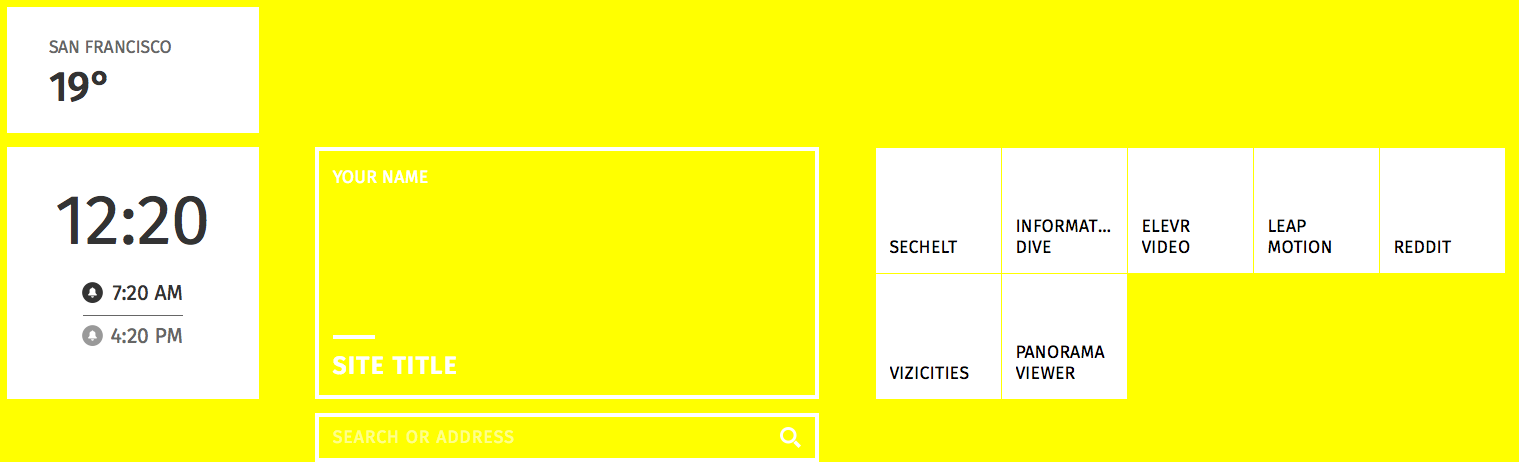
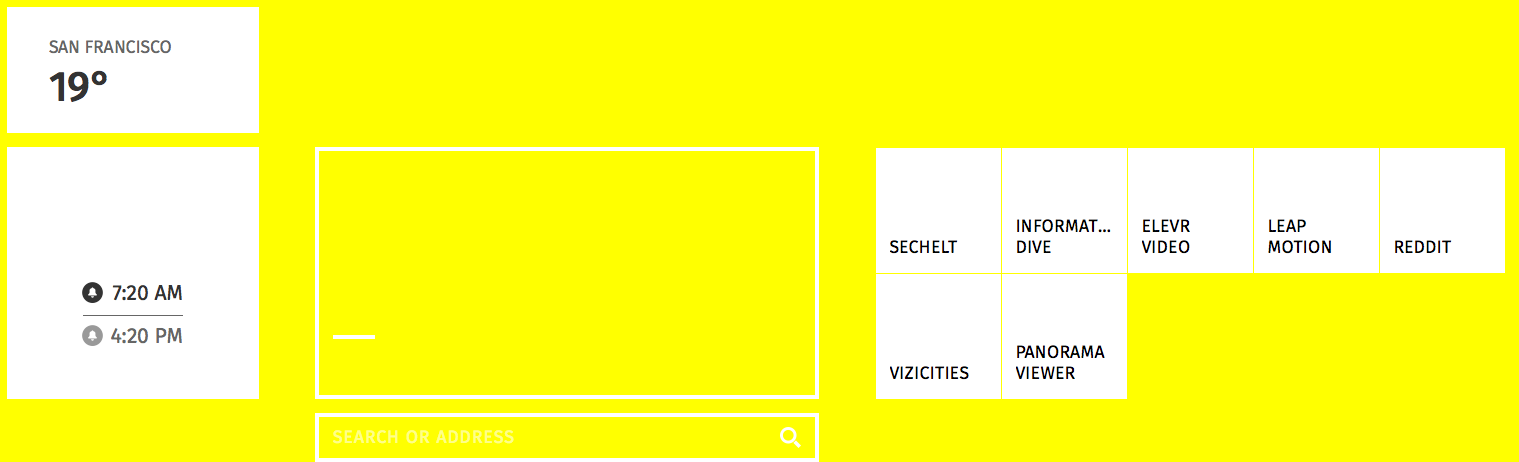
live canvas updates

Changed region(s): [[0.0309, 0.4242, 0.1547, 0.5455], [0.2166, 0.7576, 0.3094, 0.8182], [0.2166, 0.3636, 0.2785, 0.3939]]

diff --git a/hiro-ui/build/index.html b/hiro-ui/build/index.html
@@ -1,1 +1,1 @@
-<!DOCTYPE html><html><head><meta charset="utf-8"><meta name="description" content=""><meta name="viewport" content="width=device-width, initial-scale=1"><link rel="stylesheet" href="css/style.css"><link rel="stylesheet" href="fonts/fira/fira.css"><title>Hiro UI</title><script id="uidata" type="text/json"></script></head><body><div class="content"><div class="header">HIRO UI</div><div class="break"><hr>Site Frame</div><div tabindex="1" class="frame"><ul class="authors"><li>Casey Yee</li><li>Diego Marcos</li><li>Vlad Vukicevic</li></ul><div class="title"><div class="dash"></div><h1>Road to VR</h1></div></div><div class="break"><hr>Location Bar</div><input input type="text" tabindex="2" placeholder="Search or Address" class="location"><div class="cf"></div><div class="break"><hr>Keyboard</div><div class="keyboard"><ul class="cf"><li>q</li><li>w</li><li>e</li><li>r</li><li>t</li><li>y</li><li>u</li><li>i</li><li>o</li><li>p</li></ul><ul class="cf"><li>a</li><li>s</li><li>d</li><li>f</li><li tabindex="3">g</li><li>h</li><li>j</li><li>k</li><li>l</li></ul><ul class="cf"><li class="shift">-</li><li>z</li><li>x</li><li>c</li><li>v</li><li>b</li><li>n</li><li>m</li><li class="delete">-</li></ul><ul class="cf"><li class="alternate">123</li><li class="languages">-</li><li tabindex="4" class="space">Space</li><li class="period">.</li><li class="enter">Enter</li></ul></div><div class="cf"></div><div class="break"><hr>Favorites</div><div class="fav"><div class="fav-inner">Mozilla Developer</div></div><div class="fav"><div class="fav-inner">Sechelt</div></div><div class="fav"><div class="fav-inner">Twitter</div></div><div class="fav"><div class="fav-inner">Daring Fireball</div></div><div class="fav"><div class="fav-inner">Three.js documentation</div></div><div class="fav"><div class="fav-inner">GLSL.HER</div></div><div class="fav"><div class="fav-inner">Andrew Sullivan</div></div><div class="fav"><div class="fav-inner">The Atlantic</div></div><div class="fav"><div class="fav-inner">Vancouver Sun</div></div><div class="fav"><div class="fav-inner">IO9</div></div><div class="fav"><div class="fav-inner">Hacker News</div></div><div class="fav"><div class="fav-inner">Youtube</div></div><div class="fav"><div class="fav-inner">Facebook</div></div><div class="fav"><div class="fav-inner">Ars Technica</div></div><div class="fav"><div class="fav-inner">Reddit</div></div><div class="fav"><div class="fav-inner">DuckDuckGo</div></div><div class="fav"><div class="fav-inner">Oculus Share</div></div><div class="cf"></div><div class="break"><hr>Doorhanger</div><div class="doorhanger"><div class="box"><h1>Would you like to show notifications for localhost?</h1><p>Lorem ipsum dolor sit amet, consectetur adipiscing elit, sed do eiusmod tempor incididunt ut labore et dolore magna aliqua.</p><div class="close"></div></div><div tabindex="5" class="button secondary">Allow</div><div tabindex="6" class="button primary">Deny</div></div><div class="cf"></div><div class="break"><hr>Call</div><div class="call"><div class="box"><img src="images/vlad.png"><h2>Incoming Call</h2><h1>Vlad Vukicevic</h1><div class="close"></div></div><div tabindex="7" class="button secondary">Ignore</div><div tabindex="8" class="button primary">Answer</div></div><div class="cf"></div><div class="break"><hr>Widgets</div><div class="widget-small"><div class="weather-location">San Francisco</div><div class="weather-temp">19</div></div><div class="widget-medium"><div class="clock-time">12:20</div><div class="clock-alarm">7:20 AM</div><div class="clock-alarm active">4:20 PM</div></div></div><script type="text/javascript" src="js/dom2three.js"></script><script type="text/javascript" src="js/app.js"></script></body></html>
+<!DOCTYPE html><html><head><meta charset="utf-8"><meta name="description" content=""><meta name="viewport" content="width=device-width, initial-scale=1"><link rel="stylesheet" href="css/style.css"><link rel="stylesheet" href="fonts/fira/fira.css"><title>Hiro UI</title><script id="uidata" type="text/json"></script></head><body><div class="content"><div class="header">HIRO UI</div><div class="break"><hr>Site Frame</div><div tabindex="1" class="frame"><div class="authors">Casey Yee<br>Diego Marcos<br>Vlad Vukicevic</div><div class="title"><div class="dash"></div><h1>Road to VR</h1></div></div><div class="break"><hr>Location Bar</div><input input type="text" tabindex="2" placeholder="Search or Address" class="location"><div class="cf"></div><div class="break"><hr>Keyboard</div><div class="keyboard"><ul class="cf"><li>q</li><li>w</li><li>e</li><li>r</li><li>t</li><li>y</li><li>u</li><li>i</li><li>o</li><li>p</li></ul><ul class="cf"><li>a</li><li>s</li><li>d</li><li>f</li><li tabindex="3">g</li><li>h</li><li>j</li><li>k</li><li>l</li></ul><ul class="cf"><li class="shift">-</li><li>z</li><li>x</li><li>c</li><li>v</li><li>b</li><li>n</li><li>m</li><li class="delete">-</li></ul><ul class="cf"><li class="alternate">123</li><li class="languages">-</li><li tabindex="4" class="space">Space</li><li class="period">.</li><li class="enter">Enter</li></ul></div><div class="cf"></div><div class="break"><hr>Favorites</div><div class="fav"><div class="fav-inner">Mozilla Developer</div></div><div class="fav"><div class="fav-inner">Sechelt</div></div><div class="fav"><div class="fav-inner">Twitter</div></div><div class="fav"><div class="fav-inner">Daring Fireball</div></div><div class="fav"><div class="fav-inner">Three.js documentation</div></div><div class="fav"><div class="fav-inner">GLSL.HER</div></div><div class="fav"><div class="fav-inner">Andrew Sullivan</div></div><div class="fav"><div class="fav-inner">The Atlantic</div></div><div class="fav"><div class="fav-inner">Vancouver Sun</div></div><div class="fav"><div class="fav-inner">IO9</div></div><div class="fav"><div class="fav-inner">Hacker News</div></div><div class="fav"><div class="fav-inner">Youtube</div></div><div class="fav"><div class="fav-inner">Facebook</div></div><div class="fav"><div class="fav-inner">Ars Technica</div></div><div class="fav"><div class="fav-inner">Reddit</div></div><div class="fav"><div class="fav-inner">DuckDuckGo</div></div><div class="fav"><div class="fav-inner">Oculus Share</div></div><div class="cf"></div><div class="break"><hr>Doorhanger</div><div class="doorhanger"><div class="box"><h1>Would you like to show notifications for localhost?</h1><p>Lorem ipsum dolor sit amet, consectetur adipiscing elit, sed do eiusmod tempor incididunt ut labore et dolore magna aliqua.</p><div class="close"></div></div><div tabindex="5" class="button secondary">Allow</div><div tabindex="6" class="button primary">Deny</div></div><div class="cf"></div><div class="break"><hr>Call</div><div class="call"><div class="box"><img src="images/vlad.png"><h2>Incoming Call</h2><h1>Vlad Vukicevic</h1><div class="close"></div></div><div tabindex="7" class="button secondary">Ignore</div><div tabindex="8" class="button primary">Answer</div></div><div class="cf"></div><div class="break"><hr>Widgets</div><div class="widget-small"><div class="weather-location">San Francisco</div><div class="weather-temp">19</div></div><div class="widget-medium"><div class="clock-time">12:20</div><div class="clock-alarm">7:20 AM</div><div class="clock-alarm active">4:20 PM</div></div></div><script type="text/javascript" src="js/dom2three.js"></script><script type="text/javascript" src="js/app.js"></script></body></html>

diff --git a/dom2three.js b/dom2three.js
@@ -21,7 +21,6 @@ function DOM2three(uiData, searchRoot) {
 
 DOM2three.prototype.getRectangle = function(el) {
 	var rect = el.getBoundingClientRect();
-	console.log(el, rect);
 	return {
 		x: rect.x,
 		y: rect.y,
@@ -53,7 +52,12 @@ DOM2three.prototype.applyContent = function(items, dom) {
 				if (content.selector) {
 					var cel = el.querySelector(content.selector)
 					if (cel) {
-						cel.innerHTML = content.content;
+						// if this content is to be replaced with canvas text, clear out contents of element.
+						if (content.canvas) {
+							cel.innerHTML = '&nbsp;';
+						} else {
+							cel.innerHTML = content.content;
+						}
 					} else {
 						console.error(content.selector + " not found");
 					}

diff --git a/hiro-ui/src/sass/style.scss b/hiro-ui/src/sass/style.scss
@@ -107,17 +107,18 @@ body {
 	height: 18rem;
 	position: relative;
 	font-size: $font-small;
-	
+
 	.authors {
 		list-style-type: none;
-		padding: 1rem 0 0 1rem; 
-		margin: 0;
+		//padding: 1rem 0 0 1rem;
+		margin: 1rem 0 0 1rem;
+		padding: 0;
 		text-transform: uppercase;
 		font-size: $font-small;
 		letter-spacing: 0.025rem;
 
 		li {
-			padding: 0; 
+			padding: 0;
 			margin: 0;
 		}
 
@@ -362,7 +363,7 @@ body {
 	font-size: $font-small;
 	font-weight: 400;
 	line-height: 1.75rem;
-	padding: 1rem 0 0; 
+	padding: 1rem 0 0;
 	margin: 0;
 }
 
@@ -446,7 +447,7 @@ body {
 		font-size: $font-small;
 		font-weight: 400;
 		line-height: 1.75rem;
-		padding: 1rem 0 0; 
+		padding: 1rem 0 0;
 		margin: 0;
 	}
 

diff --git a/hiro-ui/build/css/style.css b/hiro-ui/build/css/style.css
@@ -71,8 +71,8 @@ body {
   font-size: 1.25rem; }
   .frame .authors {
     list-style-type: none;
-    padding: 1rem 0 0 1rem;
-    margin: 0;
+    margin: 1rem 0 0 1rem;
+    padding: 0;
     text-transform: uppercase;
     font-size: 1.25rem;
     letter-spacing: 0.025rem; }
